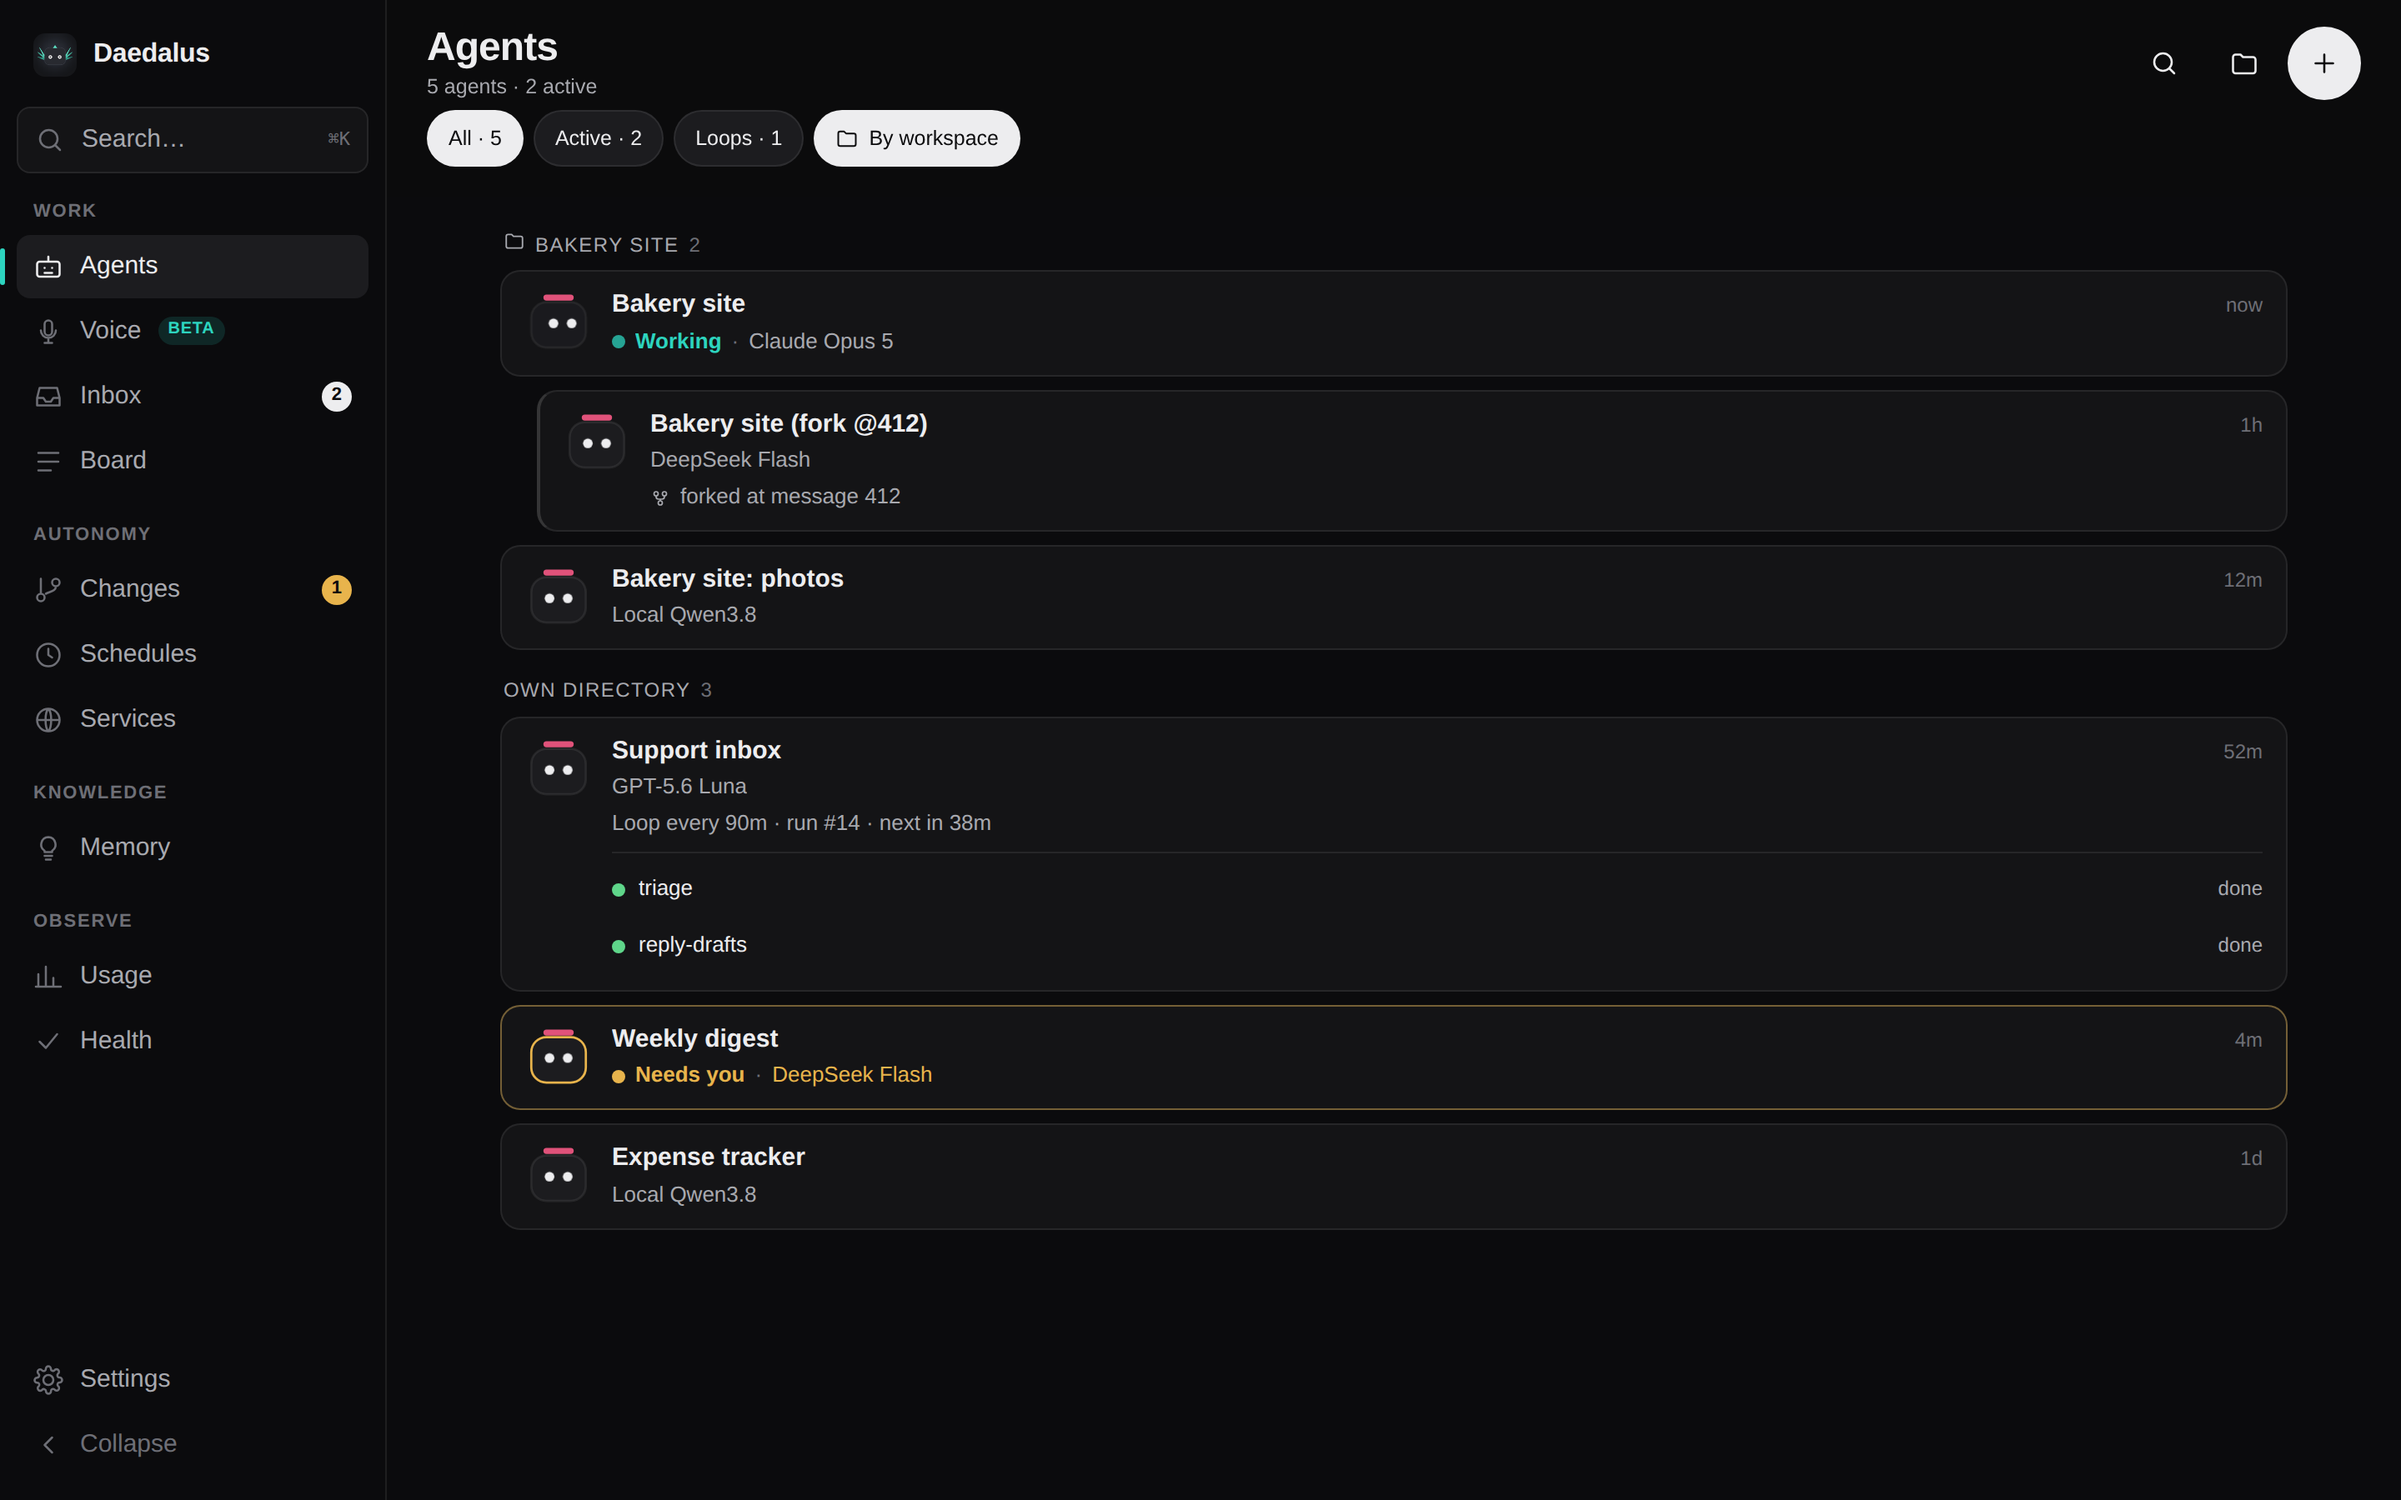
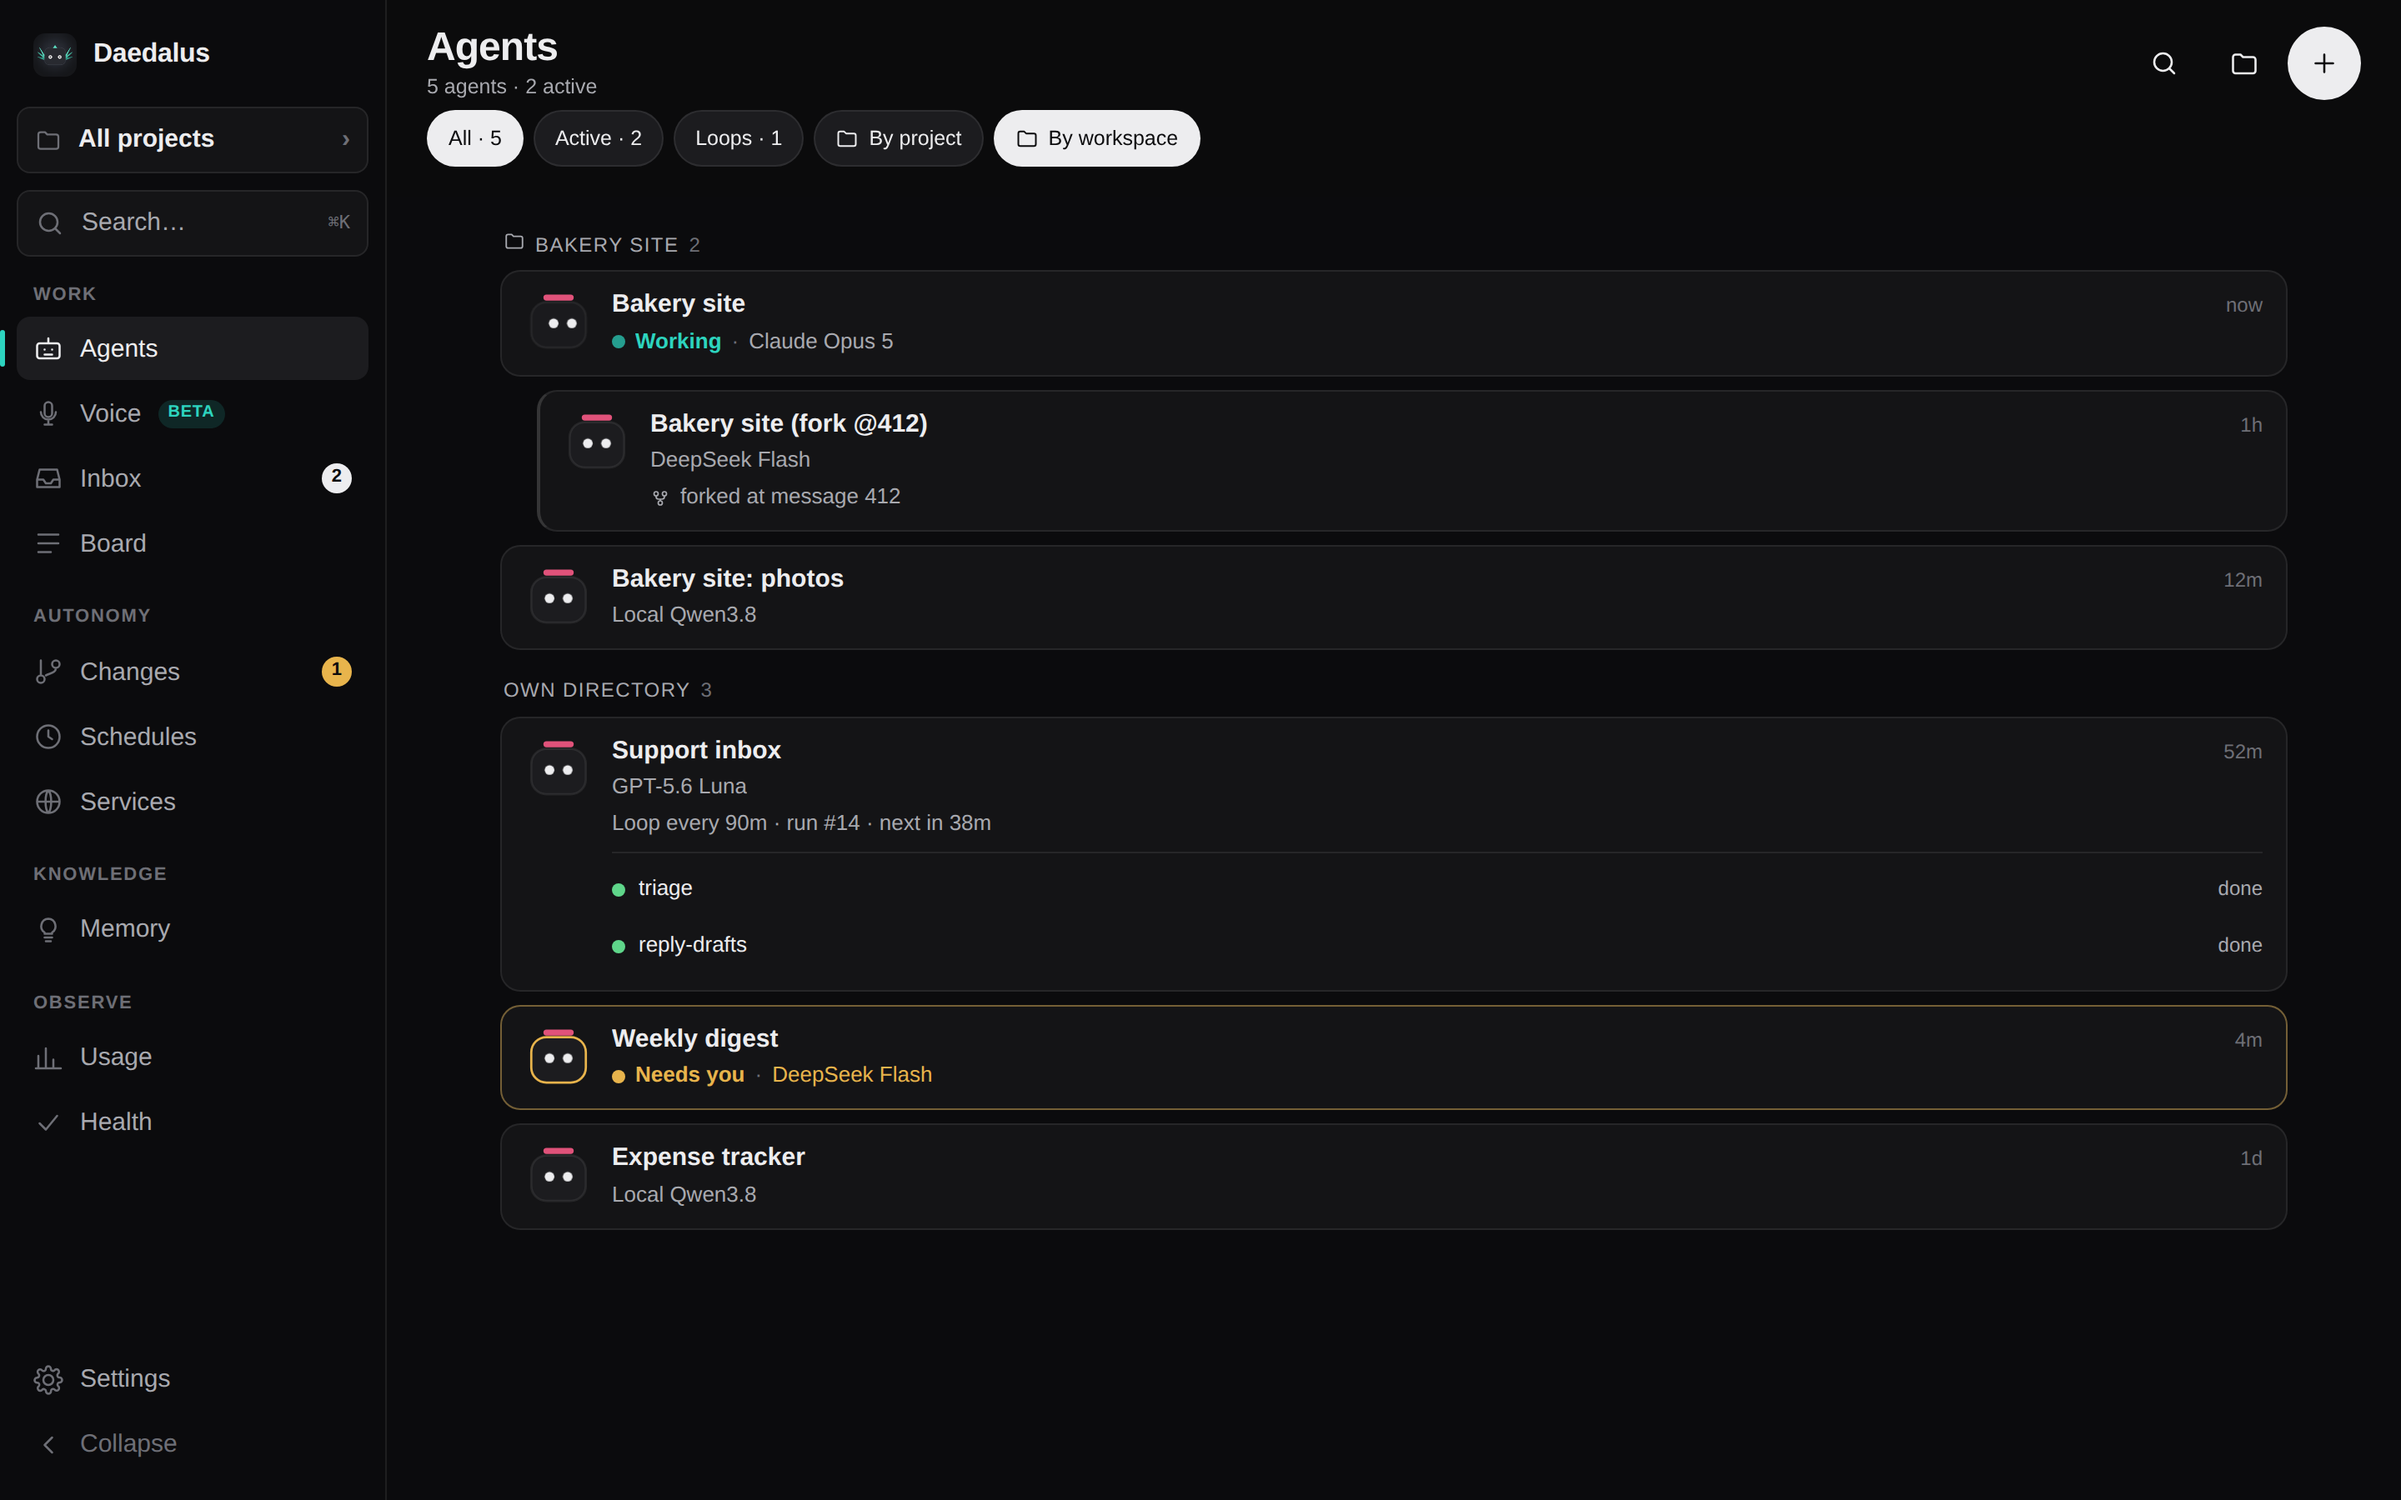
Say what a project is, and what Docker mode needs to make one reachable
README: the feature, the paragraph in the run walkthrough about where a session
works and why snapshots differ between a scratch workspace and a project, and the
picture. The setup instructions gain the bind mount an installed server needs, with
the reason the path has to be the same on both sides. The desktop README gains the
override entry the launcher writes and what read-only mounts mean for the agents.

diff --git a/README.md b/README.md
@@ -82,7 +82,12 @@ Provider keys live in a key-proxy container that injects them into upstream call
 Talk to a small fast model that answers out loud in a second, hands anything substantial to an agent session while you keep talking, and tells you when one finishes. See *Voice mode* below.
 
 </td>
-<td valign="top"></td>
+<td valign="top">
+
+**📁 Projects**<br/>
+Add a folder of your own — a repository, a directory of documents — and the agents you start in it work there. The folder is the whole of their reach: every path they read, write or run in is inside it, and one that leads out is refused, not followed. Several agents share one project and see the same files; an agent started without one still gets a scratch directory of its own, as before.
+
+</td>
 <td valign="top"></td>
 </tr>
 </table>
@@ -114,6 +119,12 @@ Talk to a small fast model that answers out loud in a second, hands anything sub
 <td align="center"><sub>Workspace files with previews and uploads</sub></td>
 <td align="center"><sub>The boards the agents keep: every task says whose it is</sub></td>
 </tr>
+<tr>
+<td colspan="2"><img src="docs/screenshots/projects.png" alt="Projects: the folders you added, the agents working in each, and one folder not mounted yet" /></td>
+</tr>
+<tr>
+<td colspan="2" align="center"><sub>Projects — a folder you add is where its agents work, and the only place they can reach</sub></td>
+</tr>
 </table>
 
 <p align="center">
@@ -136,6 +147,8 @@ Five containers, one job each. The agent container has no provider keys and no d
 ## A run, step by step
 
 <p align="center"><img src="docs/diagrams/run.png" alt="A run: the message, the prompt, the tool loop with steers, the streamed answer, the snapshot and compaction" width="88%" /></p>
+
+Where a run happens: a session works either in a **project** — a folder you added, which is both its working directory and the limit of its reach; every path it resolves is checked against that root, so a `..`, an absolute path elsewhere and a symlink out of the tree are one refusal — or, with no project, in a scratch directory of its own under the workspaces root, which is how every session worked before projects existed and still works today. Snapshots are on for a scratch workspace and off for a project until you turn them on: a project root is your repository, and committing it twice a turn costs more than the undo repays.
 
 What makes long sessions work: the **transcript** keeps everything, the **working history** the model sees is compacted into summaries when it grows (with `HistoryExpand` to read the originals back; the app shows the compaction with a progress bar while it runs), a **revert** restores the history *and* the workspace to any earlier turn, a **fork** starts a new session from one (with its own copy of the files, listed under its origin), and `/clear` starts over while keeping the files.
 

diff --git a/desktop/README.md b/desktop/README.md
@@ -121,6 +121,41 @@ first and everything — the progress, a Docker that is not installed or not sta
 to try again — is on it. The launcher keeps serving that page whether the start succeeded or not;
 closing it leaves the containers running.
 
+## Projects
+
+A project is a folder of your own — a repository, a directory of documents — that you add in the app
+(Projects in the rail, the grid icon on the Agents screen). The agents you start in it work in that
+folder and nowhere else: every path they read, write or run in is checked against the project root,
+and one that leads out of it is refused. Several agents share one project and see the same files. An
+agent started without a project still gets a scratch directory of its own, as before.
+
+`GET /api/projects` reports, per project, whether its folder is reachable from inside the running
+process (`reachable`) and whether it may be written (`writable`).
+
+**In Docker mode a project is also a bind mount, and that is the one place this mode is visibly
+heavier than native.** The agent container sees only what is mounted into it, so a folder that is not
+mounted is a project whose files are simply not there — which is what `reachable: false` says. The
+launcher is what closes that gap: for a project whose folder is unreachable it adds one entry to the
+agent service's `volumes` in `data/compose.desktop.yaml` and restarts the stack.
+
+The entry is the folder mapped to **itself** — the same absolute path inside the container as outside:
+
+```yaml
+services:
+  daedalus:
+    volumes:
+      - /home/you/work/bakery:/home/you/work/bakery
+```
+
+Same path on both sides, because the project stores the path you gave and that one string has to name
+the folder from inside the container and from outside it. Read-only (`:ro`) is a supported choice and
+is reported back as `writable: false`; the agents of that project can then read it and not change it.
+Nothing else about the project lives in compose: the name, the root and the settings are in the
+database, and the mount is only how the container comes to see the folder.
+
+In native mode there is no container and nothing to mount: a project is reachable the moment it is
+added.
+
 ## The window
 
 What shows the app is decided when the launcher starts, by what the machine can actually do, and

diff --git a/docs/AGENT-SETUP.md b/docs/AGENT-SETUP.md
@@ -122,6 +122,29 @@ which one and what it may cost first. You can confirm the state from the shell a
 docker exec deploy-daedalus-1 /srv/venv/bin/python -m daedalus check   # "model: none — …" until one is added
 ```
 
+## 3b. Projects, when the operator has folders of their own on the server
+
+A **project** is a folder the operator adds in the app (Projects in the rail, or the grid icon on the
+Agents screen): the agents started in it work in that folder and may not read or write outside it.
+Without a project a session gets a scratch directory of its own under the workspaces root, which is
+what every session had before and still gets.
+
+In this Compose install the container sees only what is mounted into it, so a folder outside the stack
+needs a bind mount before an agent can work in it. The app says which projects are not reachable; add
+the mount to the agent service and restart:
+
+```yaml
+# deploy/compose.yaml → services.daedalus.volumes
+      - /home/<operator>/work/<folder>:/home/<operator>/work/<folder>
+```
+
+Mount it at **the same path inside the container as outside**: the project stores the path the operator
+gave, and the same string has to name the folder on both sides. Then
+`docker compose up -d daedalus` and the project reports itself reachable.
+
+This is the operator's decision too: do not add folders they did not ask for, and never mount their
+whole home directory — the point of a project is that the boundary is a real one.
+
 ## 4. HTTPS (when there is a domain)
 
 Put any reverse proxy with TLS in front of port 8765 and set `MINIAPP_PUBLIC_URL=https://<domain>` (that is
